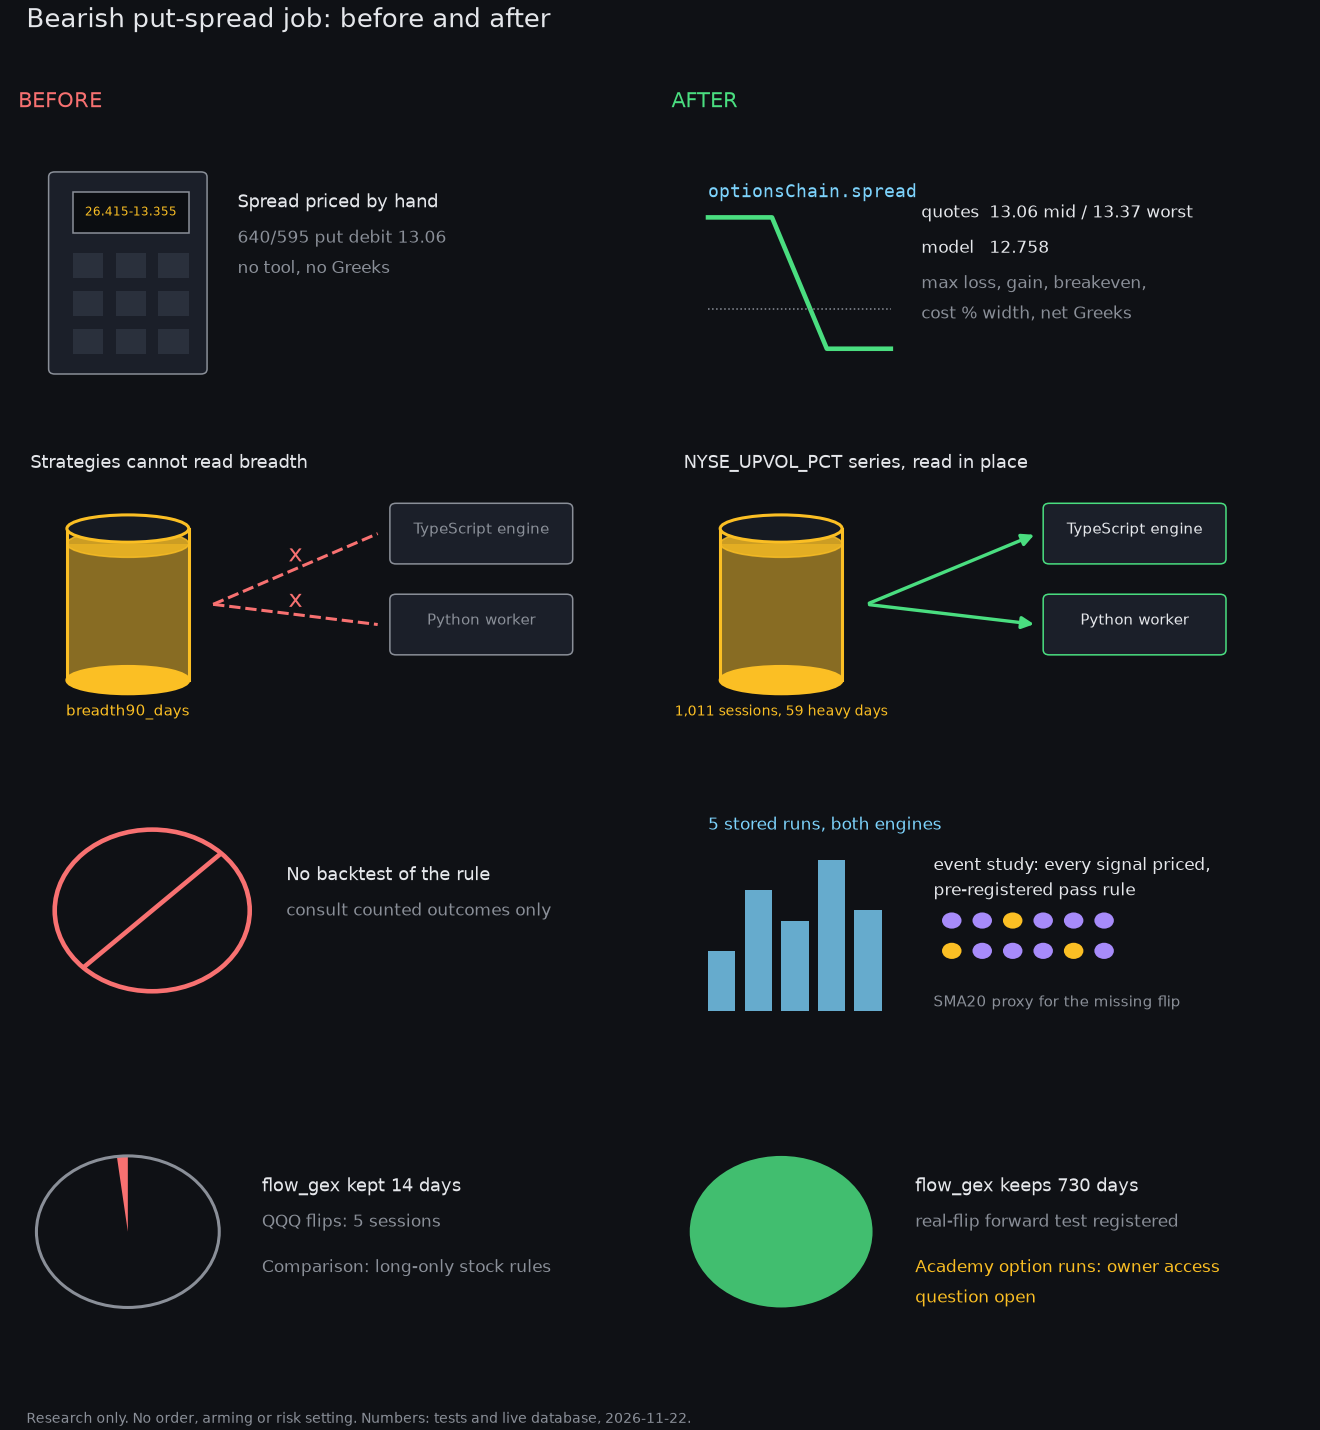
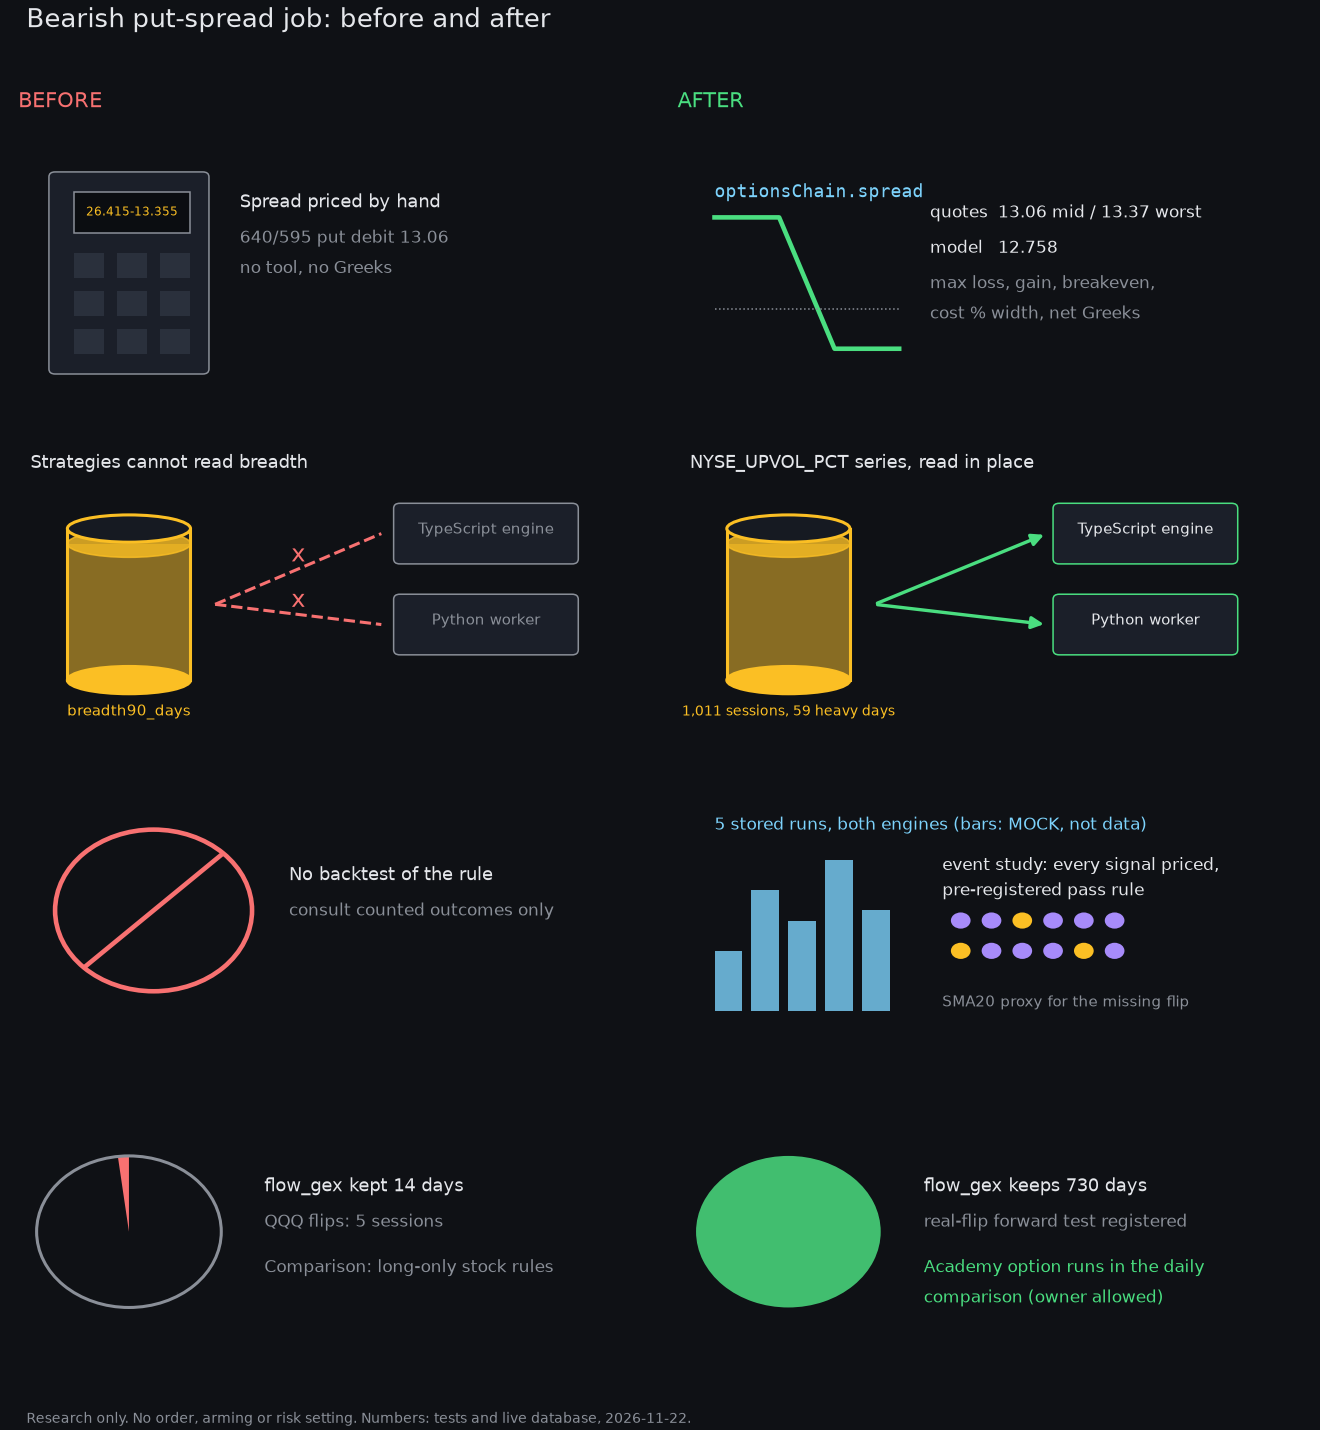
docs(spec): bearish put-spread results, amendment and retention wording
- Results table of the event study, the review deviations, the 30-vs-100 signal minimum, and flow_gex 730 days from the web deploy of 81a4dcaa; design image marks illustrative bars MOCK.

diff --git a/docs/specs/strategies/bearish-put-spread.md b/docs/specs/strategies/bearish-put-spread.md
@@ -48,7 +48,7 @@ real-flip test will be judged.
 The engine trades a signal at the next session's close (no look-ahead); the consult enters on the signal
 session.
 
-## Backtest design (fixed 2026-11-22, before the study ran)
+## Backtest design (fixed 2026-11-22; amended after the first run, see Deviations)
 
 - **Stored runs** (equity and drawdown; one spread at a time): QQQ, timeframe 1d, initial capital
   100,000, costBps 0, stop and target 0 (the options book has its own costs and exits). Window A:
@@ -81,15 +81,27 @@ proven". Otherwise "no edge shown". Window A is descriptive. Win rate is reporte
   windows; that run is recorded in the job report.
 - The engine and the study enter one session after the signal; the consult enters on the signal session.
 - `exitDte` counts calendar days; the owner rule counts trading days.
+- Code review (2026-11-22): a signal whose spread expires after the last bar is left out (counted as
+  truncated), decided by expiry and not by the exit, so the kept sample does not depend on the outcome.
+  The study's `verdict` field applies the all-four-sensitivity-cases condition since the follow-up change.
 
-## Results
+## Results (event study, 2026-11-22, code at 2d3fc6bd)
 
-See the job report on the rig (`~/Documents/reports/web/vertex-bearish-put-spread-backtest/`); the
-verdicts are added here after the runs.
+| Window | Signals | Independent | Rule minus baseline (points of max loss) | 95% interval | Out of sample | Verdict |
+| --- | --- | --- | --- | --- | --- | --- |
+| A, breadth, 2022-11-10 to 2026-11-20 | 59 | 17 | +8.7 | -19.5 to +41.9 | -22.4 | not proven |
+| B, no breadth, 2001-11-01 to 2026-11-20 | 481 | 131 | -1.1 | -11.0 to +8.9 | +2.0 | no edge shown |
+
+Every sensitivity case (ATM IV ±4 points, skew ±0.1) gives the same verdicts. A QQQ put debit spread lost
+on average in both windows, with or without the rule (window B mean return on risk: rule -27.2%,
+baseline -26.0%). The minimum of 30 independent signals follows the DeltaTrend answer; the macro answer
+and the master rule `fabio-valentini:wisdom:7` ask for about 100. Window B has 131, so the verdict is the
+same under either minimum. Full output, input digest and the knowledge-base answers: job report on the
+rig (`~/Documents/reports/web/vertex-bearish-put-spread-backtest/`).
 
 ## Forward test (registered 2026-11-22)
 
-`flow_gex` keeps 730 days since 2026-11-22, so the QuantData gamma flip of every session is stored from
+`flow_gex` keeps 730 days since the web deploy of `81a4dcaa` (2026-11-22, 18:57 UTC), so the QuantData gamma flip of every session is stored from
 2026-11-16 on. Evaluate the same definitions with conditions 1 and 2 on that flip (the flip of the last
 `flow_gex` row at or before 15:45 New York) instead of the SMA20 proxy, with the pass/fail rule above, when
 30 independent signals exist or on 2027-11-22, whichever is later. Do not pool it with the OpenBB flip
